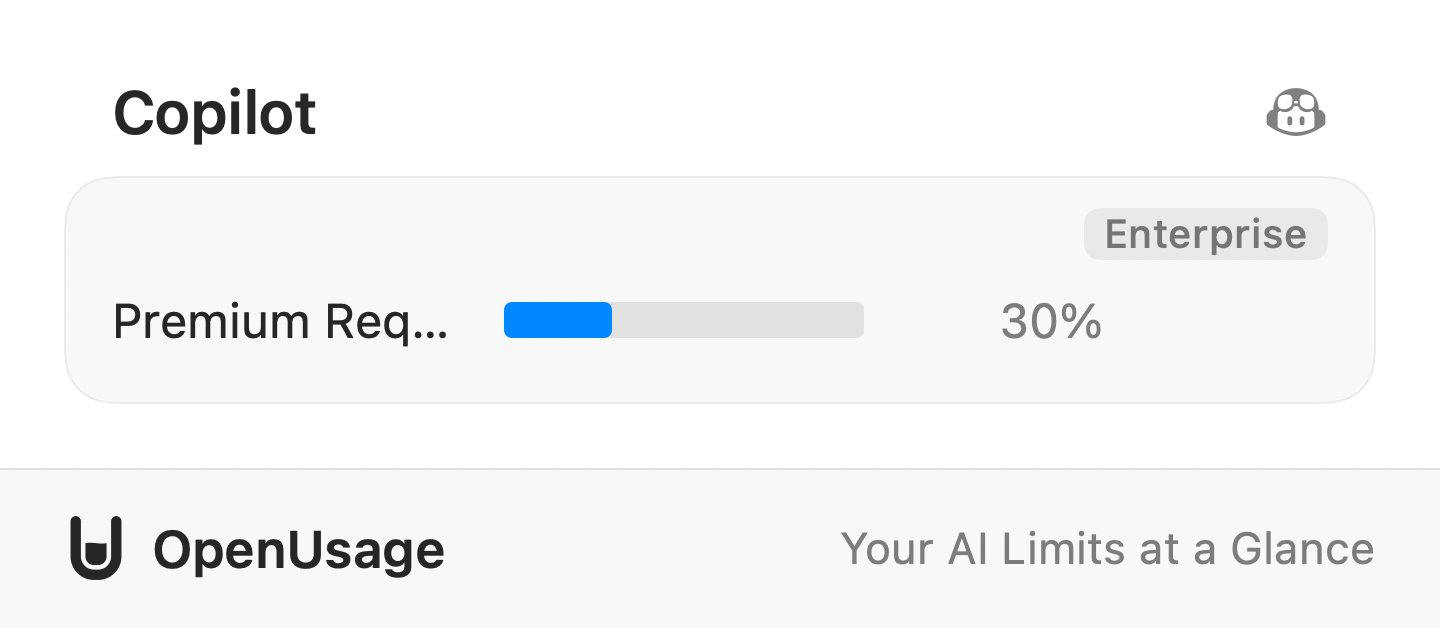
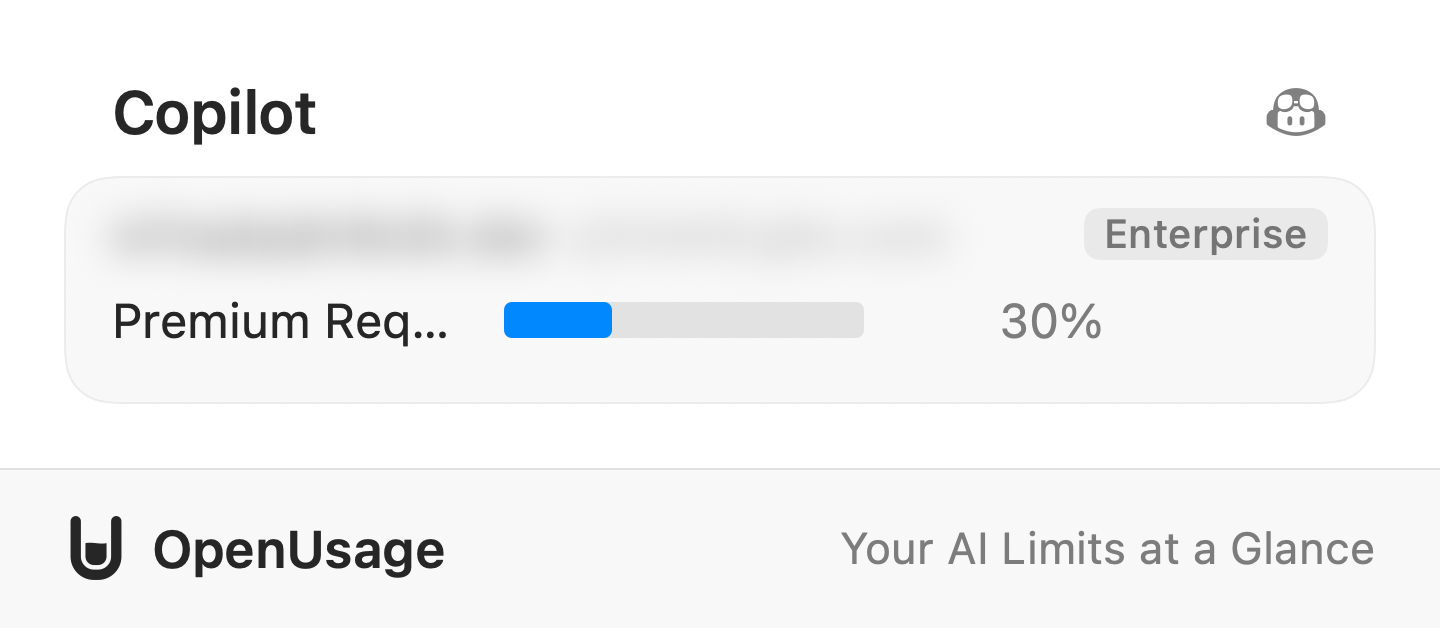
fix(privacy): retain blurred account and domain placeholders

Changed region(s): [[0.0938, 0.3328, 0.375, 0.4236]]

diff --git a/Tests/OpenUsageTests/PrivacyModeTests.swift b/Tests/OpenUsageTests/PrivacyModeTests.swift
@@ -60,6 +60,26 @@ final class PrivacyModeTests: QuietWindowTestCase {
         XCTAssertEqual(provider.accountLabel, "Private Customer Project", "sharing changes presentation, not the provider")
     }
 
+    func testCopiedEmailAccountsKeepTheBlurredPlaceholderWhilePrivacyModeIsOn() async throws {
+        enableAccessibility()
+        let defaults = isolatedDefaults()
+        let provider = Provider(id: "copilot@private", kind: .copilot, accountLabel: "private@example.com")
+        let family = DashboardFamily(id: "copilot", provider: provider, accounts: [makeAccount(provider)])
+        let view = ShareCardView(family: family, appearance: .light).defaultAppStorage(defaults)
+        let host = show(view, size: CGSize(width: ShareCardView.width, height: 300)).host
+        try await waitUntil { self.accessibilityText(in: host).contains("Session") }
+        XCTAssertFalse(accessibilityText(in: host).contains("private@example.com"), "copied cards omit email names when Privacy Mode is off")
+
+        defaults.set(true, forKey: PrivacyModeSetting.key)
+        try await waitUntil { self.accessibilityText(in: host).contains("Hidden Account") }
+        XCTAssertFalse(accessibilityText(in: host).contains("private@example.com"))
+
+        defaults.set(false, forKey: PrivacyModeSetting.key)
+        try await waitUntil { !self.accessibilityText(in: host).contains("Hidden Account") }
+        XCTAssertFalse(accessibilityText(in: host).contains("private@example.com"))
+        XCTAssertEqual(provider.accountLabel, "private@example.com")
+    }
+
     func testEnterpriseDomainIsMaskedInTheDashboardCaptionAndRestoredWhenPrivacyModeIsOff() async throws {
         let provider = Provider(id: "copilot@private", kind: .copilot, accountLabel: "Work", domain: "private-company.ghe.com")
         let view = DashboardAccountRows(account: makeAccount(provider), plan: "Enterprise")
@@ -84,7 +104,7 @@ final class PrivacyModeTests: QuietWindowTestCase {
         defaults.set(true, forKey: PrivacyModeSetting.key)
         try await waitUntil {
             let text = self.accessibilityText(in: host)
-            return text.contains("Session") && text.contains("Enterprise") && !text.contains(domain)
+            return text.contains("Session") && text.contains("Enterprise") && text.contains("Hidden Domain") && !text.contains(domain)
         }
 
         defaults.set(false, forKey: PrivacyModeSetting.key)

diff --git a/Sources/OpenUsage/Views/DashboardProviderSection.swift b/Sources/OpenUsage/Views/DashboardProviderSection.swift
@@ -77,8 +77,6 @@ struct DashboardAccountCaption: View {
     @Environment(AccountRenameStore.self) private var renaming: AccountRenameStore?
     @AppStorage(PrivacyModeSetting.key) private var privacyMode = false
 
-    private var visibleDomain: String? { privacyMode ? nil : account.provider.domain }
-
     /// A sole default-named account sits under its provider's name. Siblings need separate drag handles.
     private var showsName: Bool {
         hasSiblingAccounts || account.provider.labelBesideName != nil || renaming?.edit?.providerID == account.id
@@ -86,7 +84,7 @@ struct DashboardAccountCaption: View {
 
     @ViewBuilder
     var body: some View {
-        if showsName || visibleDomain != nil || plan != nil || status.isShowing {
+        if showsName || account.provider.domain != nil || plan != nil || status.isShowing {
             caption.padding(.bottom, DashboardGrid.captionGap)
         }
     }
@@ -97,12 +95,18 @@ struct DashboardAccountCaption: View {
                 AccountNameLabel(account: account, font: DashboardGrid.captionFont)
                     .foregroundStyle(.secondary)
             }
-            if let domain = visibleDomain {
-                Text(domain)
-                    .font(DashboardGrid.captionFont)
-                    .foregroundStyle(.tertiary)
-                    .lineLimit(1)
-                    .truncationMode(.middle)
+            if let domain = account.provider.domain {
+                Group {
+                    if privacyMode {
+                        PrivacyPlaceholderText(placeholder: "q7m4r8.ghe.com", accessibilityLabel: "Hidden Domain")
+                    } else {
+                        Text(domain)
+                    }
+                }
+                .font(DashboardGrid.captionFont)
+                .foregroundStyle(.tertiary)
+                .lineLimit(1)
+                .truncationMode(.middle)
             }
             status.glyph
             Spacer(minLength: DashboardGrid.columnGap)

diff --git a/Sources/OpenUsage/Views/AccountNameText.swift b/Sources/OpenUsage/Views/AccountNameText.swift
@@ -5,17 +5,28 @@ struct AccountNameText: View {
     let provider: Provider
     let privacyMode: Bool
 
-    private let placeholder = "m7xq4p@r8n2k.dev"
-
     var body: some View {
         if privacyMode {
-            Text(verbatim: placeholder)
-                .truncationMode(.tail)
-                .blur(radius: 5)
-                .textSelection(.disabled)
-                .accessibilityLabel(PrivacyModeSetting.accountName(provider, isEnabled: true))
+            PrivacyPlaceholderText(
+                placeholder: "m7xq4p@r8n2k.dev",
+                accessibilityLabel: PrivacyModeSetting.accountName(provider, isEnabled: true)
+            )
         } else {
             Text(provider.accountName)
         }
+    }
+}
+
+/// Both account and domain stand-ins use the same blur without drawing any saved private text.
+struct PrivacyPlaceholderText: View {
+    let placeholder: String
+    let accessibilityLabel: String
+
+    var body: some View {
+        Text(verbatim: placeholder)
+            .truncationMode(.tail)
+            .blur(radius: 5)
+            .textSelection(.disabled)
+            .accessibilityLabel(accessibilityLabel)
     }
 }

diff --git a/Sources/OpenUsage/Views/ShareCardView.swift b/Sources/OpenUsage/Views/ShareCardView.swift
@@ -6,13 +6,14 @@ struct ShareCardView: View {
     let family: DashboardFamily
     var plans: [String: String] = [:]
     let appearance: ColorScheme
+    @AppStorage(PrivacyModeSetting.key) private var privacyMode = false
 
     static let width: CGFloat = 360
     static let inset: CGFloat = 16
 
     var body: some View {
         ShareCardFrame(appearance: appearance) {
-            DashboardProviderSection(family: family.hidingEmails) { account in
+            DashboardProviderSection(family: privacyMode ? family : family.hidingEmails) { account in
                 DashboardAccountRows(account: account, plan: plans[account.id], hasSiblingAccounts: family.accounts.count > 1)
             }
         }

diff --git a/docs/privacy.md b/docs/privacy.md
@@ -22,10 +22,11 @@ only the provider APIs those accounts need.
 Turn on **Privacy Mode** under **Settings → Advanced → Privacy** before taking screenshots. It hides
 account names and emails, account initials, hub addresses, enterprise domains, sign-in codes and personal
 input, and error details that may contain personal information. Provider names, plans, and usage stay
-visible. Enterprise domains stay hidden on dashboard cards and copied usage pictures too. New usage
-notifications use the same masking.
+visible. New usage notifications conceal personal details too.
 
-Account names use a fixed placeholder unrelated to the saved name. Screen readers use “Hidden Account.”
+Account names and dashboard enterprise domains use fixed blurred placeholders unrelated to the saved
+text. Copied usage pictures keep these placeholders, including for email-named accounts. Screen readers
+use “Hidden Account” and “Hidden Domain.”
 
 It is off by default and remembers your choice. Clicking or hovering over hidden text never reveals
 it; turn Privacy Mode off to see personal details again. Account renaming is unavailable while it is

diff --git a/README.md b/README.md
@@ -55,9 +55,9 @@ files, or logs. See [Accounts](docs/accounts.md). Coming from 0.7.x? See
 - **Your layout.** Pin the metrics you care about, hide the rest, and drag everything into your order.
 - **Rate-limit resets.** See and spend Claude and ChatGPT resets.
 - **Share.** Copy a picture of your usage to the clipboard.
-- **[Privacy Mode](docs/privacy.md#privacy-mode).** Replace personal account names with a safe placeholder
-  and hide sign-in details and enterprise domains, including in copied usage pictures. Real usage stays
-  visible.
+- **[Privacy Mode](docs/privacy.md#privacy-mode).** Use blurred placeholders for personal account names
+  and enterprise domains on dashboard cards and copied usage pictures. Hide personal sign-in details
+  while keeping real usage visible.
 - **Notifications.** A heads-up before a limit runs out, or before a weekly limit resets with most of
   it unused.
 - **Priority limits.** Choose how much left turns a limit orange or red, see limits you're burning

diff --git a/docs/dashboard.md b/docs/dashboard.md
@@ -124,7 +124,8 @@ Hover over a Today, Yesterday, or similar figure to preview its details. Click i
 Hover over a provider's card and click the copy button beside its logo, or choose **Share
 Screenshot**, to copy a PNG of its card. On one account in a card of several, it copies only that
 account. Emails are left out.
-With [Privacy Mode](privacy.md#privacy-mode) on, custom account names and enterprise domains are hidden too.
+With [Privacy Mode](privacy.md#privacy-mode) on, account names (including emails) and enterprise domains
+use fixed blurred placeholders in the copied picture.
 
 ## Update banner
 
